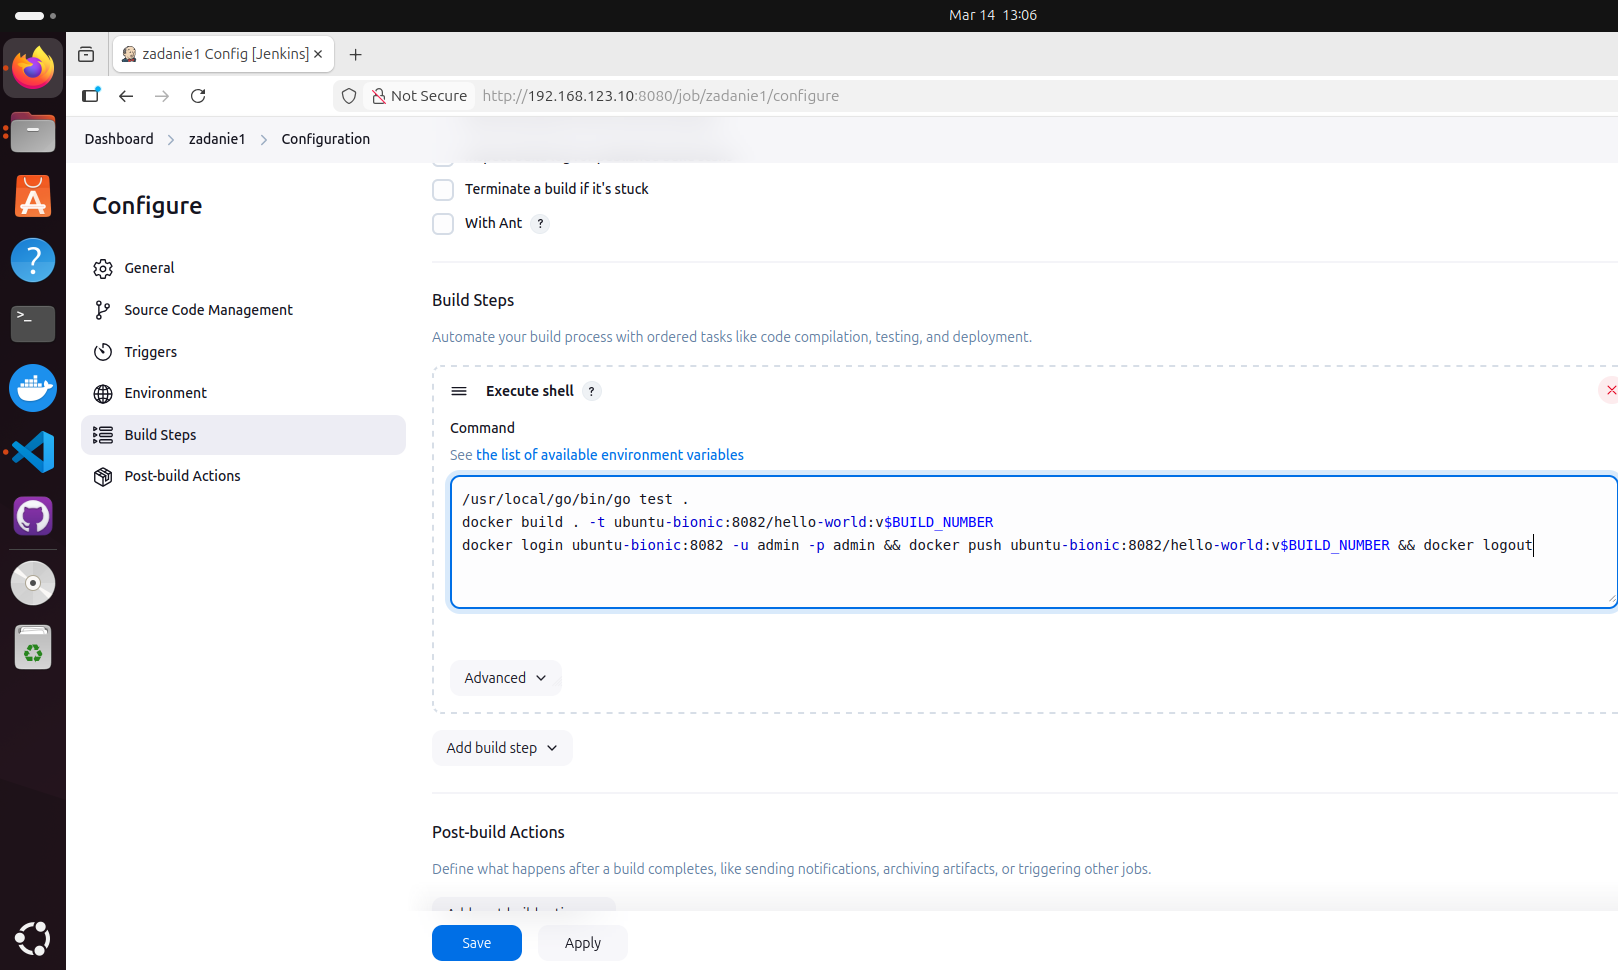
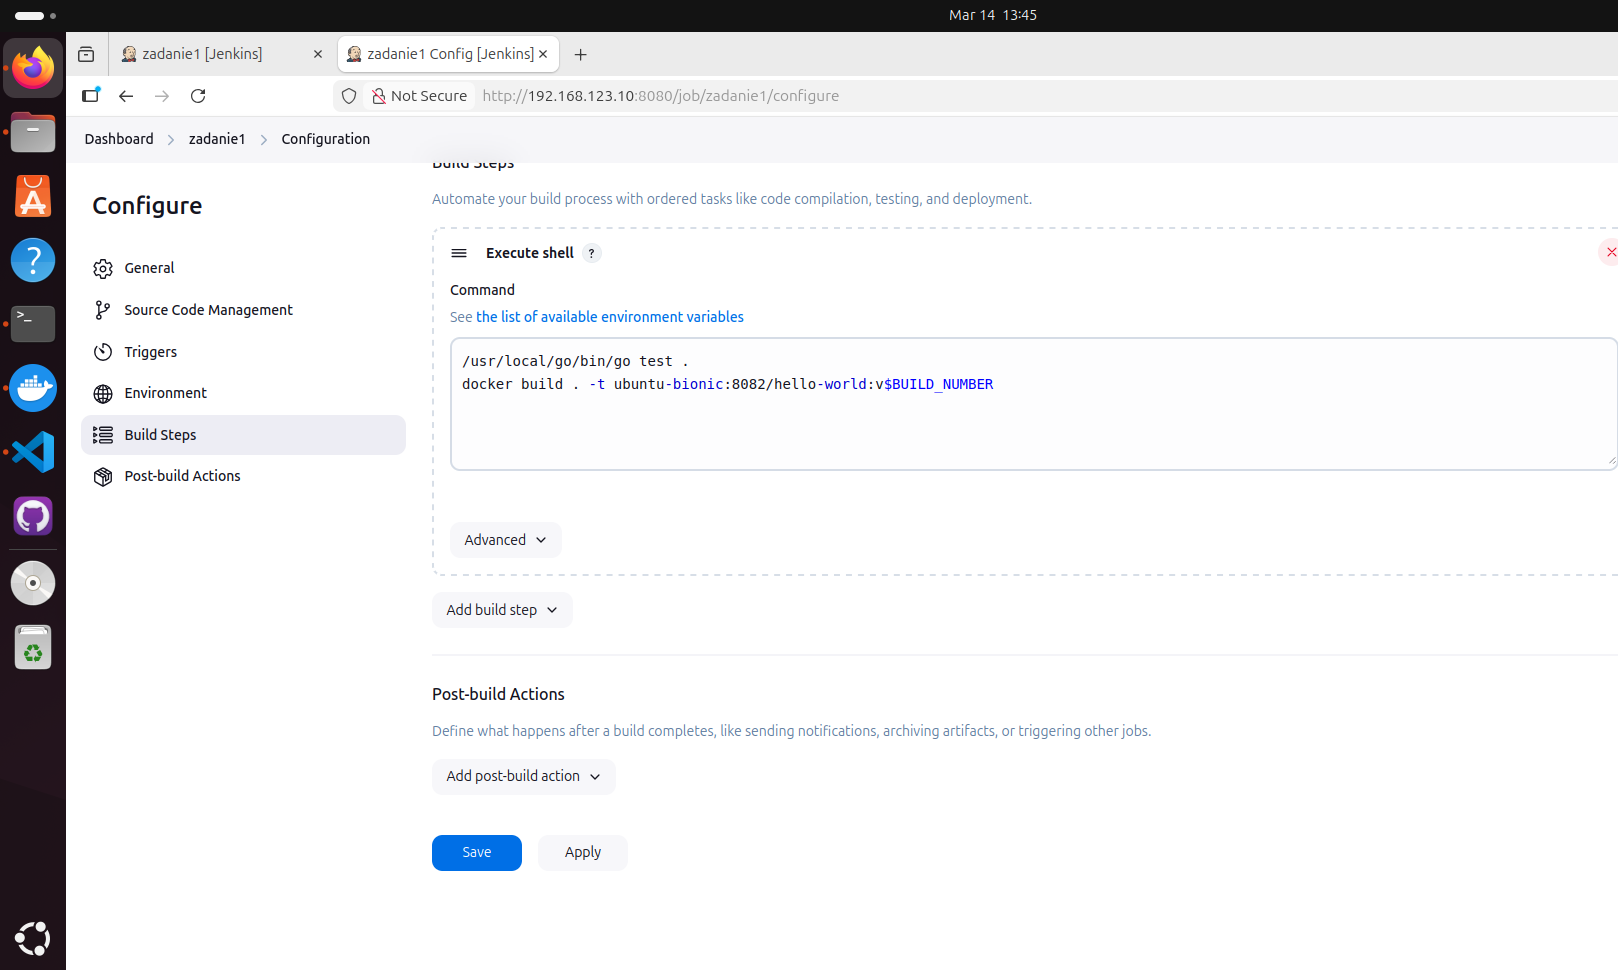
1

diff --git a/README.md b/README.md
@@ -27,7 +27,7 @@
 3. Создайте в jenkins Freestyle Project, подключите получившийся репозиторий к нему и произведите запуск тестов и сборку проекта ```go test .``` и  ```docker build .```.
 
 В качестве ответа пришлите скриншоты с настройками проекта и результатами выполнения сборки.
-
+[скриншот 1 к заданию 1]()
 ---
 
 ### Задание 2
